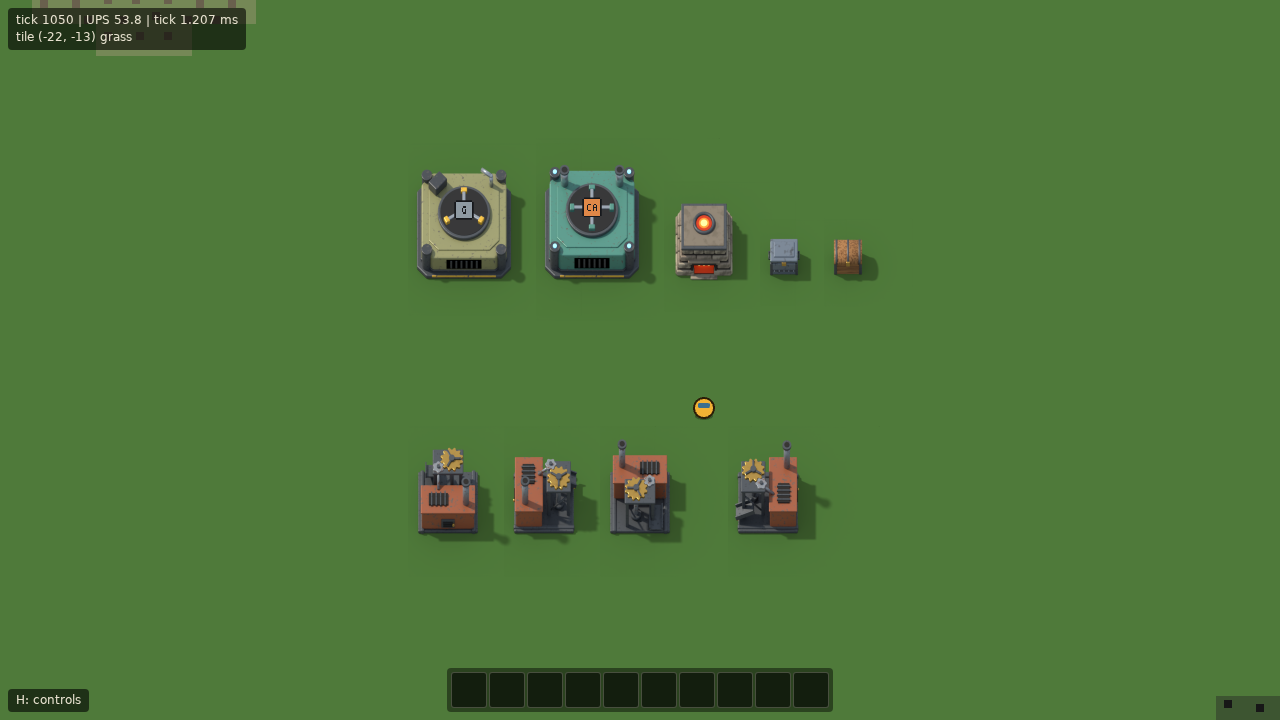
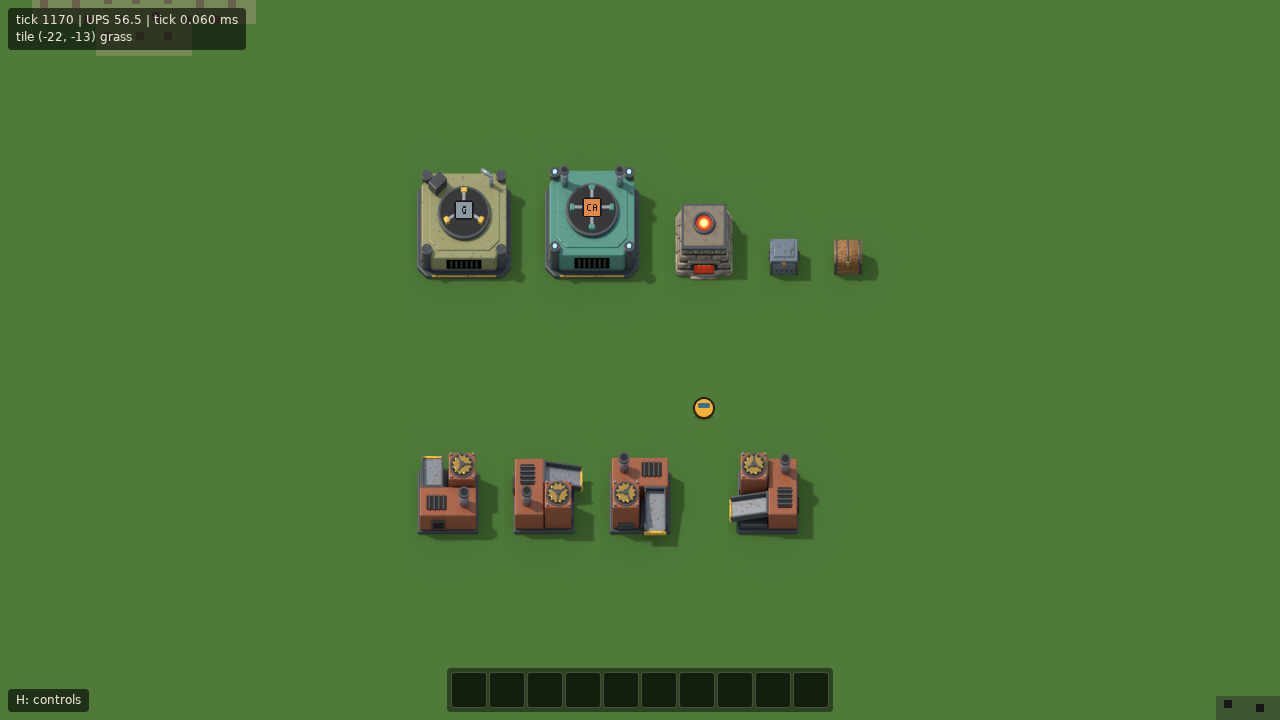
fix(art): clearer burner mining drill silhouette and output chute (#61)
Redesign the burner mining drill model as three clear blocks: the
firebox housing across the rear with a short chimney, a taller drill head
at the front right with the drive gear sunk into a well in its top, and a
wide, light output chute at the front left that runs past the front edge
and ends in a hazard-yellow lip over the drop tile. The drop direction now
reads at 1x without the ghost marker.

Closes #59

Changed region(s): [[0.3125, 0.6111, 0.5312, 0.7639], [0.5625, 0.6111, 0.625, 0.7639]]

diff --git a/art/blender/models/burner_mining_drill.py b/art/blender/models/burner_mining_drill.py
@@ -1,19 +1,26 @@
 """
-Burner mining drill (2x2, 4 directions): a firebox housing at the rear with
-a chimney, a drilling gantry at the front with the drive gears on top, and
-an output chute at the front-left, over the tile the drill drops onto
-(docs/DECISIONS.md, D12). Modeled facing north.
+Burner mining drill (2x2, 4 directions), modeled facing north. Three blocks
+with clear jobs, so the silhouette reads at 1x:
 
-Layers: `body`; `head`, the drive gears, turning while the drill works
-(a third of a turn over 8 frames: the big gear has 3 spokes and 12 teeth,
-the pinion 6, so both line up again where the loop starts over); `fire`,
-the glow of the firebox through its vent and door, while it works.
+- the firebox housing across the rear half, with a fire vent on top, a door
+  at the back and a short stout chimney at the rear right;
+- the drill head, a taller block at the front right, with the drive gear
+  sunk into a well in its top (only its rim of teeth shows);
+- the output chute at the front left: a wide, light trough that runs out of
+  the housing, down over a low deck and past the front edge, ending in a
+  hazard-yellow lip over the tile the drill drops onto (docs/DECISIONS.md,
+  D12).
+
+Layers: `body`; `fire`, the glow of the firebox through its vent and door,
+while it works; `head`, the drive gear, turning while the drill works (a
+third of a turn over 8 frames: the gear has 3 spokes and 12 teeth, so it
+lines up again where the loop starts over).
 """
 
 import math
 
 from bwart import materials as m
-from bwart.shapes import box, cylinder, gear, layer, pipe
+from bwart.shapes import box, cylinder, gear, layer
 
 MODEL = {
     'name': 'burner-mining-drill',
@@ -27,71 +34,98 @@ MODEL = {
     ],
 }
 
-TOP = 1.0  # gantry top
-HOUSING_H = 0.62
+SKID = 0.1
+HOUSING_TOP = 0.66
+HEAD_TOP = 0.9
+DECK_TOP = 0.26
+HEAD = (0.44, 0.44)  # drill head center (x, y)
+CHUTE_X = -0.48
 
 
 def build(ctx):
-    housing = m.paint('drill_housing', 0x9a5536, amount=0.22)
+    housing = m.paint('drill_housing', 0x9a5536, amount=0.18)
     frame = m.dark_iron()
     iron = m.iron()
     brass = m.worn('brass', 'brass', metallic=0.7, roughness=0.32, amount=0.15)
     soot = m.plain('soot', 'soot', roughness=1.0)
-    hazard = m.paint('hazard', 'hazard', amount=0.25)
+    hazard = m.paint('hazard', 'hazard', amount=0.12)
 
     # Skid.
-    box((1.86, 1.86, 0.1), (0, 0, 0.05), frame, bevel=0.03)
-    for sx in (-1, 1):
-        box((0.12, 1.9, 0.14), (sx * 0.8, 0, 0.07), frame, bevel=0.03)
-    # Rear housing with the firebox: a vent on top, a door at the back.
-    hy = -0.47
-    box((1.64, 0.82, HOUSING_H), (0, hy, 0.1 + HOUSING_H / 2), housing, bevel=0.04)
-    box((1.7, 0.88, 0.05), (0, hy, 0.1 + HOUSING_H), housing, bevel=0.02)
-    zt = 0.1 + HOUSING_H + 0.03
-    # Vent: a dark well with bars across it (the fire layer glows in the well).
-    box((0.6, 0.36, 0.06), (-0.3, hy - 0.02, zt), soot, bevel=0.0)
+    box((1.9, 1.9, SKID), (0, 0, SKID / 2), frame, bevel=0.03)
+
+    # Firebox housing over the rear half.
+    hy, hd = -0.46, 0.9
+    hh = HOUSING_TOP - SKID
+    box((1.76, hd, hh), (0, hy, SKID + hh / 2), housing, bevel=0.04)
+    zt = HOUSING_TOP + 0.01
+    # Vent at the rear left: a dark well with bars across it (the fire layer glows in it).
+    vx, vy = -0.36, hy - 0.06
+    box((0.62, 0.42, 0.03), (vx, vy, zt), soot, bevel=0.0)
     for i in range(4):
-        box((0.04, 0.42, 0.05), (-0.3 - 0.21 + i * 0.14, hy - 0.02, zt + 0.02), frame, bevel=0.0)
-    box((0.42, 0.04, 0.3), (0, hy - 0.42, 0.34), frame, bevel=0.015)
+        box((0.045, 0.46, 0.04), (vx - 0.22 + i * 0.147, vy, zt + 0.015), frame, bevel=0.0)
+    # Fire door at the back.
+    box((0.44, 0.04, 0.3), (-0.3, hy - hd / 2 - 0.02, 0.34), frame, bevel=0.015)
     for i in range(3):
-        box((0.3, 0.05, 0.03), (0, hy - 0.44, 0.26 + i * 0.07), soot, bevel=0.0)
-    cylinder(0.035, 0.08, (0.17, hy - 0.46, 0.34), brass, rot=(math.pi / 2, 0, 0), verts=10)
-    # Chimney at the rear right.
-    cylinder(0.1, 0.75, (0.56, hy - 0.12, zt + 0.37), iron, verts=16)
-    cylinder(0.14, 0.06, (0.56, hy - 0.12, zt + 0.76), frame, verts=16)
-    cylinder(0.08, 0.02, (0.56, hy - 0.12, zt + 0.79), soot, verts=16)
-    # Gantry at the front: four posts, braces, a deck carrying the gears, and the drill shaft.
-    gy = 0.46
+        box((0.32, 0.05, 0.03), (-0.3, hy - hd / 2 - 0.04, 0.26 + i * 0.07), soot, bevel=0.0)
+    # Short stout chimney at the rear right.
+    cx, cy = 0.5, hy - 0.08
+    cylinder(0.14, 0.4, (cx, cy, zt + 0.2), iron, verts=20)
+    cylinder(0.17, 0.06, (cx, cy, zt + 0.4), frame, verts=20)
+    cylinder(0.11, 0.02, (cx, cy, zt + 0.43), soot, verts=20)
+
+    # Drill head at the front right: a taller block, the gear sunk into its top.
+    hx, hy2 = HEAD
+    head_w = 0.84
+    box((head_w, head_w, HEAD_TOP - SKID), (hx, hy2, (HEAD_TOP + SKID) / 2), housing, bevel=0.04)
+    cylinder(0.38, 0.03, (hx, hy2, HEAD_TOP + 0.005), frame, verts=32)
+    cylinder(0.33, 0.03, (hx, hy2, HEAD_TOP + 0.012), soot, verts=32)
+    # Bolts at the corners of the top.
     for sx in (-1, 1):
         for sy in (-1, 1):
-            box((0.1, 0.1, TOP), (sx * 0.4, gy + sy * 0.3, TOP / 2), frame, bevel=0.02)
-        pipe([(sx * 0.4, gy - 0.3, 0.2), (sx * 0.4, gy + 0.3, TOP - 0.2)], 0.025, frame)
-    box((0.96, 0.76, 0.08), (0, gy, TOP), frame, bevel=0.025)
-    cylinder(0.07, TOP, (0.12, gy, TOP / 2), iron, verts=12)
-    cylinder(0.16, 0.12, (0.12, gy, 0.16), frame, verts=16)
-    # Output chute over the front-left tile, with a hazard-striped lip.
-    chute = (-0.5, 0.95, 0.24)
-    box((0.4, 0.62, 0.05), (-0.5, 0.72, 0.36), frame, bevel=0.015, rot=(math.radians(-24), 0, 0))
+            cylinder(0.035, 0.04, (hx + sx * 0.35, hy2 + sy * 0.35, HEAD_TOP + 0.03), iron, verts=8)
+    # The drill bit's collar under the head, at the front.
+    box((0.5, 0.06, 0.2), (hx, hy2 + head_w / 2 + 0.02, SKID + 0.12), frame, bevel=0.015)
+
+    # Low deck at the front left that the chute runs over.
+    box((0.86, 0.86, DECK_TOP - SKID), (CHUTE_X + 0.04, 0.44, (DECK_TOP + SKID) / 2), frame, bevel=0.03)
+
+    # Output chute: from a dark mouth in the housing's front, down past the front edge.
+    mouth_y = hy + hd / 2
+    box((0.62, 0.04, 0.3), (CHUTE_X, mouth_y + 0.01, 0.46), soot, bevel=0.0)
+    box((0.7, 0.08, 0.06), (CHUTE_X, mouth_y + 0.03, 0.63), frame, bevel=0.015)
+    y0, z0 = mouth_y, 0.5  # top of the trough's floor
+    y1, z1 = 1.16, 0.3  # its lip (the render frame has 0.25 tile of margin)
+    run = math.hypot(y1 - y0, z1 - z0)
+    tilt = math.atan2(z1 - z0, y1 - y0)  # negative: sloping down to the front
+    mid = ((y0 + y1) / 2, (z0 + z1) / 2)
+    width = 0.58
+    rot = (tilt, 0, 0)
+    box((width, run, 0.05), (CHUTE_X, mid[0], mid[1]), iron, bevel=0.012, rot=rot)
+    # Side walls, standing on the floor (local Z of the tilted floor is (0, -sin, cos)).
+    up = 0.07
     for sx in (-1, 1):
-        box((0.04, 0.62, 0.14), (-0.5 + sx * 0.19, 0.72, 0.41), frame, bevel=0.01, rot=(math.radians(-24), 0, 0))
-    box((0.42, 0.06, 0.06), chute, hazard, bevel=0.015)
-    # A drive shaft from the housing to the gears.
-    pipe([(-0.3, hy + 0.3, zt), (-0.3, gy - 0.25, TOP + 0.06)], 0.04, iron)
+        box(
+            (0.05, run, 0.17),
+            (CHUTE_X + sx * (width / 2 + 0.02), mid[0] - math.sin(tilt) * up, mid[1] + math.cos(tilt) * up),
+            frame,
+            bevel=0.012,
+            rot=rot,
+        )
+    # Hazard-yellow lip across the end, and a strut under it down to the deck.
+    box((width + 0.1, 0.07, 0.1), (CHUTE_X, y1 + 0.01, z1 + 0.01), hazard, bevel=0.015)
+    for sx in (-1, 1):
+        box((0.05, 0.05, z1 - DECK_TOP + 0.06), (CHUTE_X + sx * 0.22, 0.86, (z1 + DECK_TOP) / 2 + 0.02), frame, bevel=0.01)
 
     with layer('fire'):
         glow = m.emissive('fire_glow', 0xf07020, strength=1.6)
-        box((0.56, 0.32, 0.02), (-0.3, hy - 0.02, zt + 0.02), glow, bevel=0.0)
-        box((0.3, 0.02, 0.22), (0, hy - 0.43, 0.33), glow, bevel=0.0)
+        box((0.58, 0.38, 0.02), (vx, vy, zt + 0.005), glow, bevel=0.0)
+        box((0.32, 0.02, 0.22), (-0.3, hy - hd / 2 - 0.035, 0.33), glow, bevel=0.0)
 
     with layer('head'):
         turn = ctx.t('head') * (2 * math.pi / 3)
-        zg = TOP + 0.1
-        gear(0.36, 12, 0.07, (0.12, gy, zg), brass, phase=-turn)
-        cylinder(0.09, 0.1, (0.12, gy, zg + 0.04), frame, verts=16)
+        zg = HEAD_TOP + 0.03
+        gear(0.31, 12, 0.05, (hx, hy2, zg), brass, phase=-turn)
+        cylinder(0.08, 0.06, (hx, hy2, zg + 0.03), frame, verts=16)
         for k in range(3):
             a = -turn + k * 2 * math.pi / 3
-            box((0.27, 0.06, 0.04), (0.12 + math.cos(a) * 0.15, gy + math.sin(a) * 0.15, zg + 0.05), frame, rot=(0, 0, a), bevel=0.01)
-        # A pinion meshing with it, turning the other way.
-        pinion_turn = turn * 2
-        gear(0.18, 6, 0.07, (-0.3, gy - 0.25, zg), iron, phase=pinion_turn)
-        cylinder(0.05, 0.1, (-0.3, gy - 0.25, zg + 0.03), frame, verts=12)
+            box((0.2, 0.06, 0.03), (hx + math.cos(a) * 0.14, hy2 + math.sin(a) * 0.14, zg + 0.03), frame, rot=(0, 0, a), bevel=0.01)
